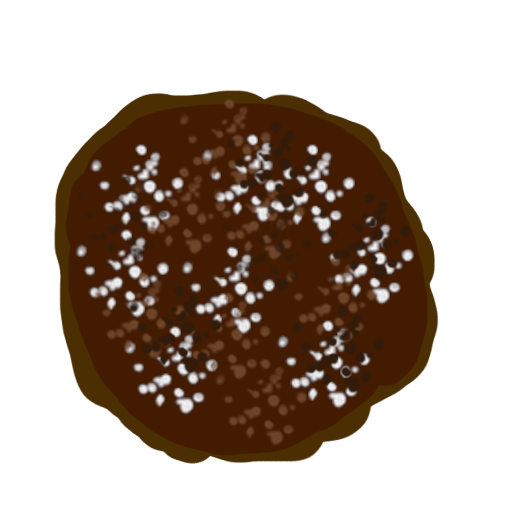
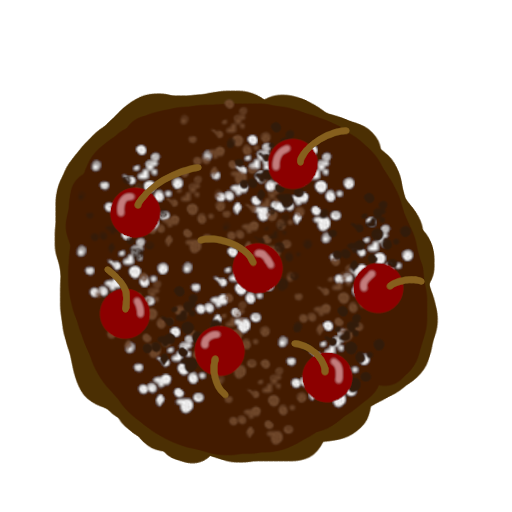
add new levels, fix start position, update choccy cake, fix cake pickup range

diff --git a/tables.js b/tables.js
@@ -17,8 +17,45 @@ function genTables(){
                   [500,30]
                 ];
     
+    let level3 = [[30,200],
+                  [30,475],
+                  [330,30],
+                  [650,30],
+                  [650,130],
+                  [650,230],
+                  [1000,30],
+                  [1000,130],
+                  [1000,230],
+                  [1000,330],
+                  [1000,430],
+                  [650,490],
+                  [750,490],
+                  [750,590],
+                  [300,590],
+                  [330,130],
+                  [430,130]
+                ];
+    let level4 = [[190,30],
+                  [190,130],
+                  [190,230],
+                  [190,330],
+                  [190,430],
+                  [420,290],
+                  [420,390],
+                  [420,490],
+                  [420,590],
+                  [770,290],
+                  [770,390],
+                  [770,490],
+                  [770,590],
+                  [1000,30],
+                  [1000,130],
+                  [1000,230],
+                  [1000,330],
+                  [1000,430],
+                ];
     // level selection
-    tables = level2;
+    tables = level4;
   }
 
   function drawTables(c) {

diff --git a/constants.js b/constants.js
@@ -14,13 +14,20 @@ var tables = [];
 var tableImgs = []
 const tableSideLen = 100;
 
-// player movement vaiables
-var offsetX = 500;
-var offsetY = 300;
-const stepSize = 7;
+// cart variables
+var cartImgSide = 300;
+var cartPosX = 640-(cartImgSide/2);
+var cartPosY = 720-(cartImgSide/2);
 
 //player size
 var playerWidth = 100;
+
+// player movement vaiables
+var offsetX = cartPosX + (cartImgSide/2 - playerWidth/2);
+var offsetY = cartPosY ;
+const stepSize = 7;
+
+
 
 //gameplay variables
 var bagSize = 4;
@@ -35,11 +42,6 @@ var cakes = {};
 var num_of_cakes = 10;
 var cakeImgs = {};
 const cakeOptions = ["./assets/cake1.png", "./assets/cake2.png", "./assets/cake3.png", "./assets/alen.png"];
-
-// cart variables
-var cartImgSide = 300;
-var cartPosX = 640-(cartImgSide/2);
-var cartPosY = 720-(cartImgSide/2);
 
 // time variables
 var globalTime = 0;

diff --git a/pickup.js b/pickup.js
@@ -11,8 +11,8 @@ function GetNearestCake(cakes,playerCornerX,playerCornerY,playerWidth){
   //iterate through each cake in dict
   for (var key in cakes) {
     //get cake coords
-    var x = cakes[key][0];
-    var y = cakes[key][1];
+    var x = cakes[key][0] + cakeSize/2;
+    var y = cakes[key][1] + cakeSize/2;
     //get distance from player to cake
     var dist = Math.sqrt((playerX-x)**2 + (playerY - y)**2);
     //store cake key and distance if it is new shortest distance
@@ -24,7 +24,7 @@ function GetNearestCake(cakes,playerCornerX,playerCornerY,playerWidth){
   //if a cake has been found
   if(nearestCake !== null){
     //if cake is within grab range
-    if (minDist <= (playerWidth*1.25)){
+    if (minDist <= (playerWidth*1.2)){
       return nearestCake;
     }
     //if too far, return null
